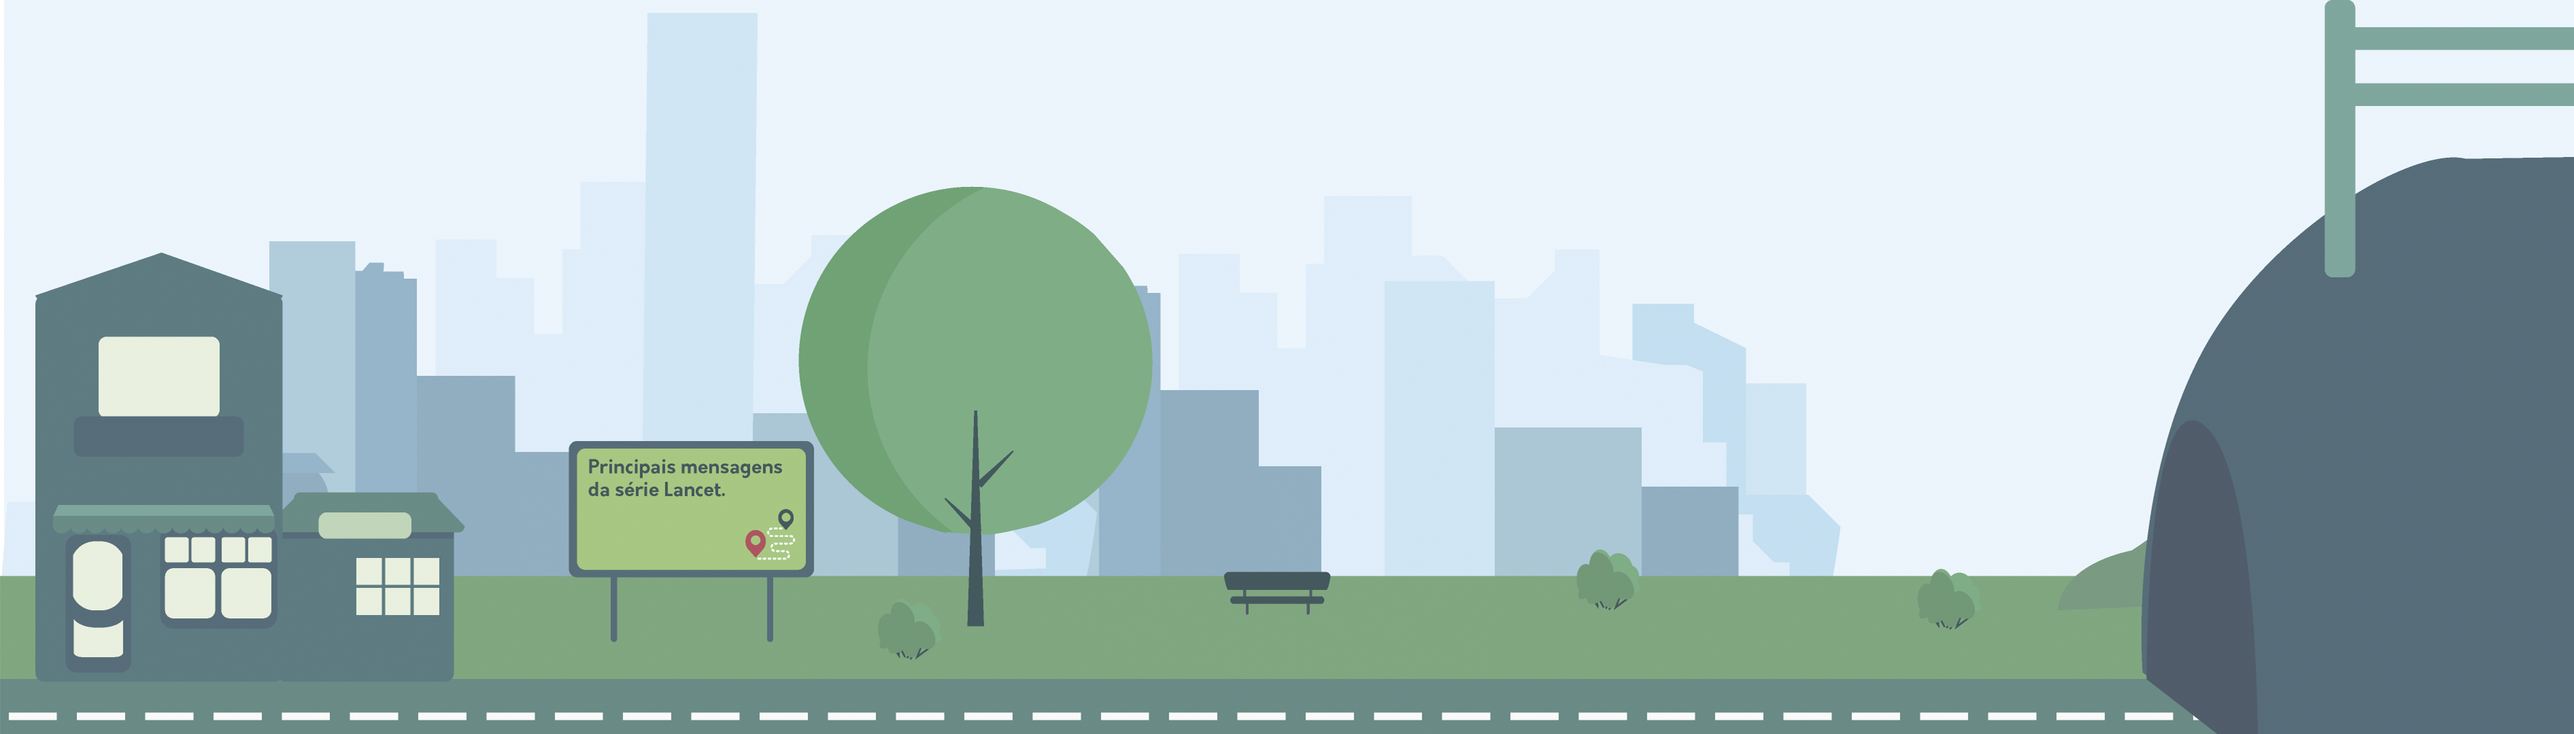
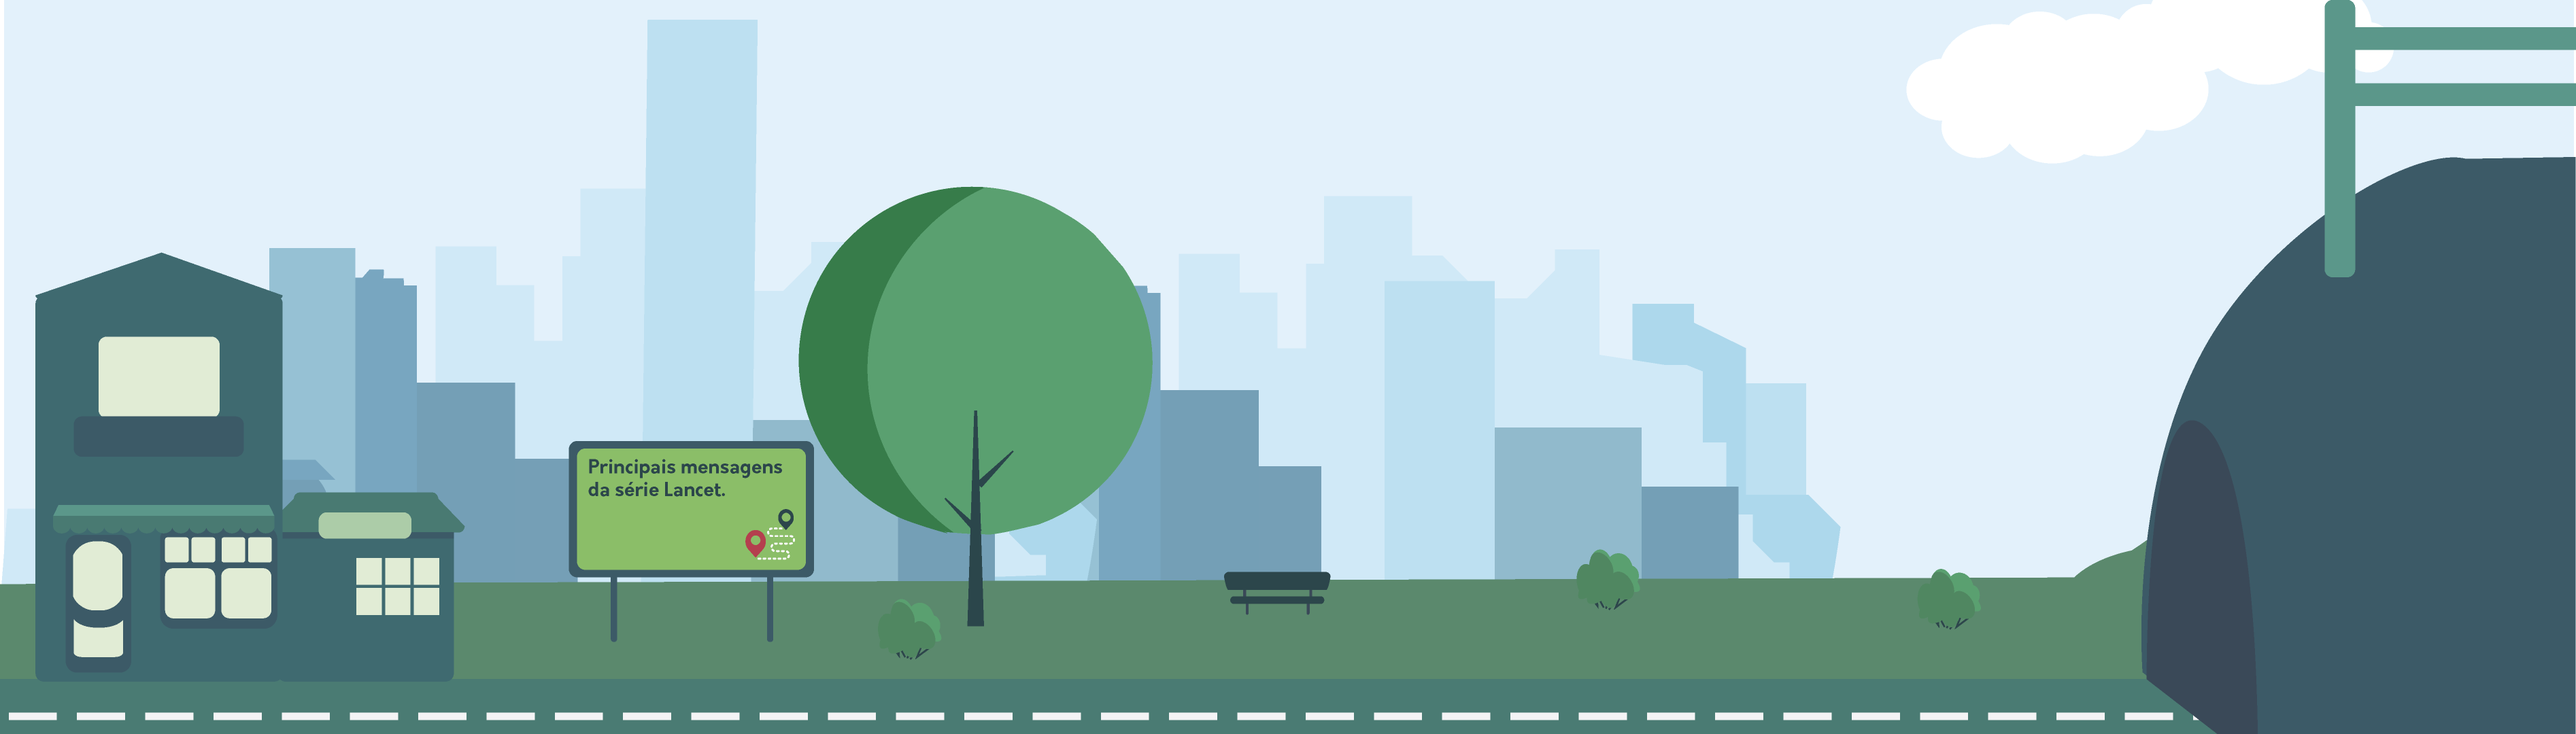
alterando bg, ajustando a seta de retorno e implementando pop up inicial

diff --git a/page.html b/page.html
@@ -16,17 +16,23 @@
     <script src="js/jquery.modal.min.js"></script>
   </head>
   <body>
-    <div id="lancet" style="background-image: url('imgs/ciclista.gif')"></div>
-    <div id="outer-wrapper" onscroll="movimentacao()">
-      <div class="wrapper">
-        <!-- SESSÃO - INTRODUÇÃO -->
-        <a href="index.html">
+    <div id="popup-intro">
+      <div id="intro-content">
+        <img src="imgs/personagens/Lucas.png" id="lucas-intro">
+        <p id="text-intro">Este é um Lucas, um médico que gosta de se exercitar andando de bicicleta e aprender mais com as pessoas e as experiências do meio em que vive. Ele é um profissional  que acredita no conhecimento em constante movimento para conseguir transformar a saúde.</p>
+      </div>
+    </div>
+    <a href="index.html">
           <div
             class="retorno"
             id="retorno"
             style="background-image: url('imgs/elementos-cenario/retorno.png')"
           ></div>
-       </a>
+    </a>
+    <div id="lancet" style="background-image: url('imgs/ciclista.gif')"></div>
+    <div id="outer-wrapper" onscroll="movimentacao()">
+      <div class="wrapper">
+        <!-- SESSÃO - INTRODUÇÃO -->
         <img class="background" src="./imgs/bg/intro.png" />
 
         <!-- SESSÃO - Nº 1 -->
@@ -168,7 +174,7 @@
         </div>
 
         <div class="modal" id="pessoa4" style="display:none;">
-          <div class="dialogo">
+          <div class="dialogo di-rodney">
             <div class="texto">
               <h3>Rodney:</h3>
               <p>E qual o seu benefício?</p>
@@ -527,7 +533,7 @@
 
             </div>
 
-            <img class="dialogo-img" src="imgs/Ciclistas.gif" />
+            <img class="dialogo-img" src="imgs/personagens/cic.png" />
 
           </div>
           

diff --git a/js/main-info.js b/js/main-info.js
@@ -2,8 +2,14 @@
  * @author Container Digital Jr <containerdigitaljr@gmail.com>
  */
 
+window.onload = function() {
+   $("#popup-intro").modal();
+};
+
+
+// FUNÇÕES PARA FIXAR ELEMENTOS NO SCROLL
+
 window.addEventListener("scroll", () => {
-  console.log("scroll");
 
   var window_width = $(window).width() - $("#lancet").width();
 
@@ -13,6 +19,20 @@ window.addEventListener("scroll", () => {
 
   var object_position_left = window_width * (scroll_position / document_height);
   $("#lancet").css({
+    left: object_position_left
+  });
+});
+
+window.addEventListener("scroll", () => {
+
+  var window_width = $(window).width() - $(".retorno").width();
+
+  var document_height = $(document).height() - $(window).height();
+
+  var scroll_position = $(window).scrollTop();
+
+  var object_position_left = window_width * (scroll_position / document_height);
+  $(".retorno").css({
     left: object_position_left
   });
 });

diff --git a/style/style.css b/style/style.css
@@ -70,9 +70,16 @@ body {
 .link:hover {
   color: #207b74;
 }
+
+/*Estilização relacionado aos popups*/
+
 .dialogo {
   display: flex !important;
   align-items: center;
+}
+
+.di-rodney{
+  justify-content: space-around;
 }
 
 .dialogo-img {
@@ -82,6 +89,18 @@ body {
   padding-left: 5%;
   padding-bottom: 2%;
 }
+
+#intro-content{
+  display: flex;
+  justify-content: space-around;
+  align-items: center !important;
+}
+
+#lucas-intro{
+  width: 150px;
+  height: 150px;
+}
+
 /*BALÕES DE INTERAÇÃO*/
 .balao-luiziane{
     position: absolute;
@@ -247,6 +266,7 @@ body {
     background-size: 100% !important;
     width: 25px;
     background-repeat: no-repeat;
+    z-index: 1;
 }
 
 /*MODAL INTERATIVO SESSAO1*/
